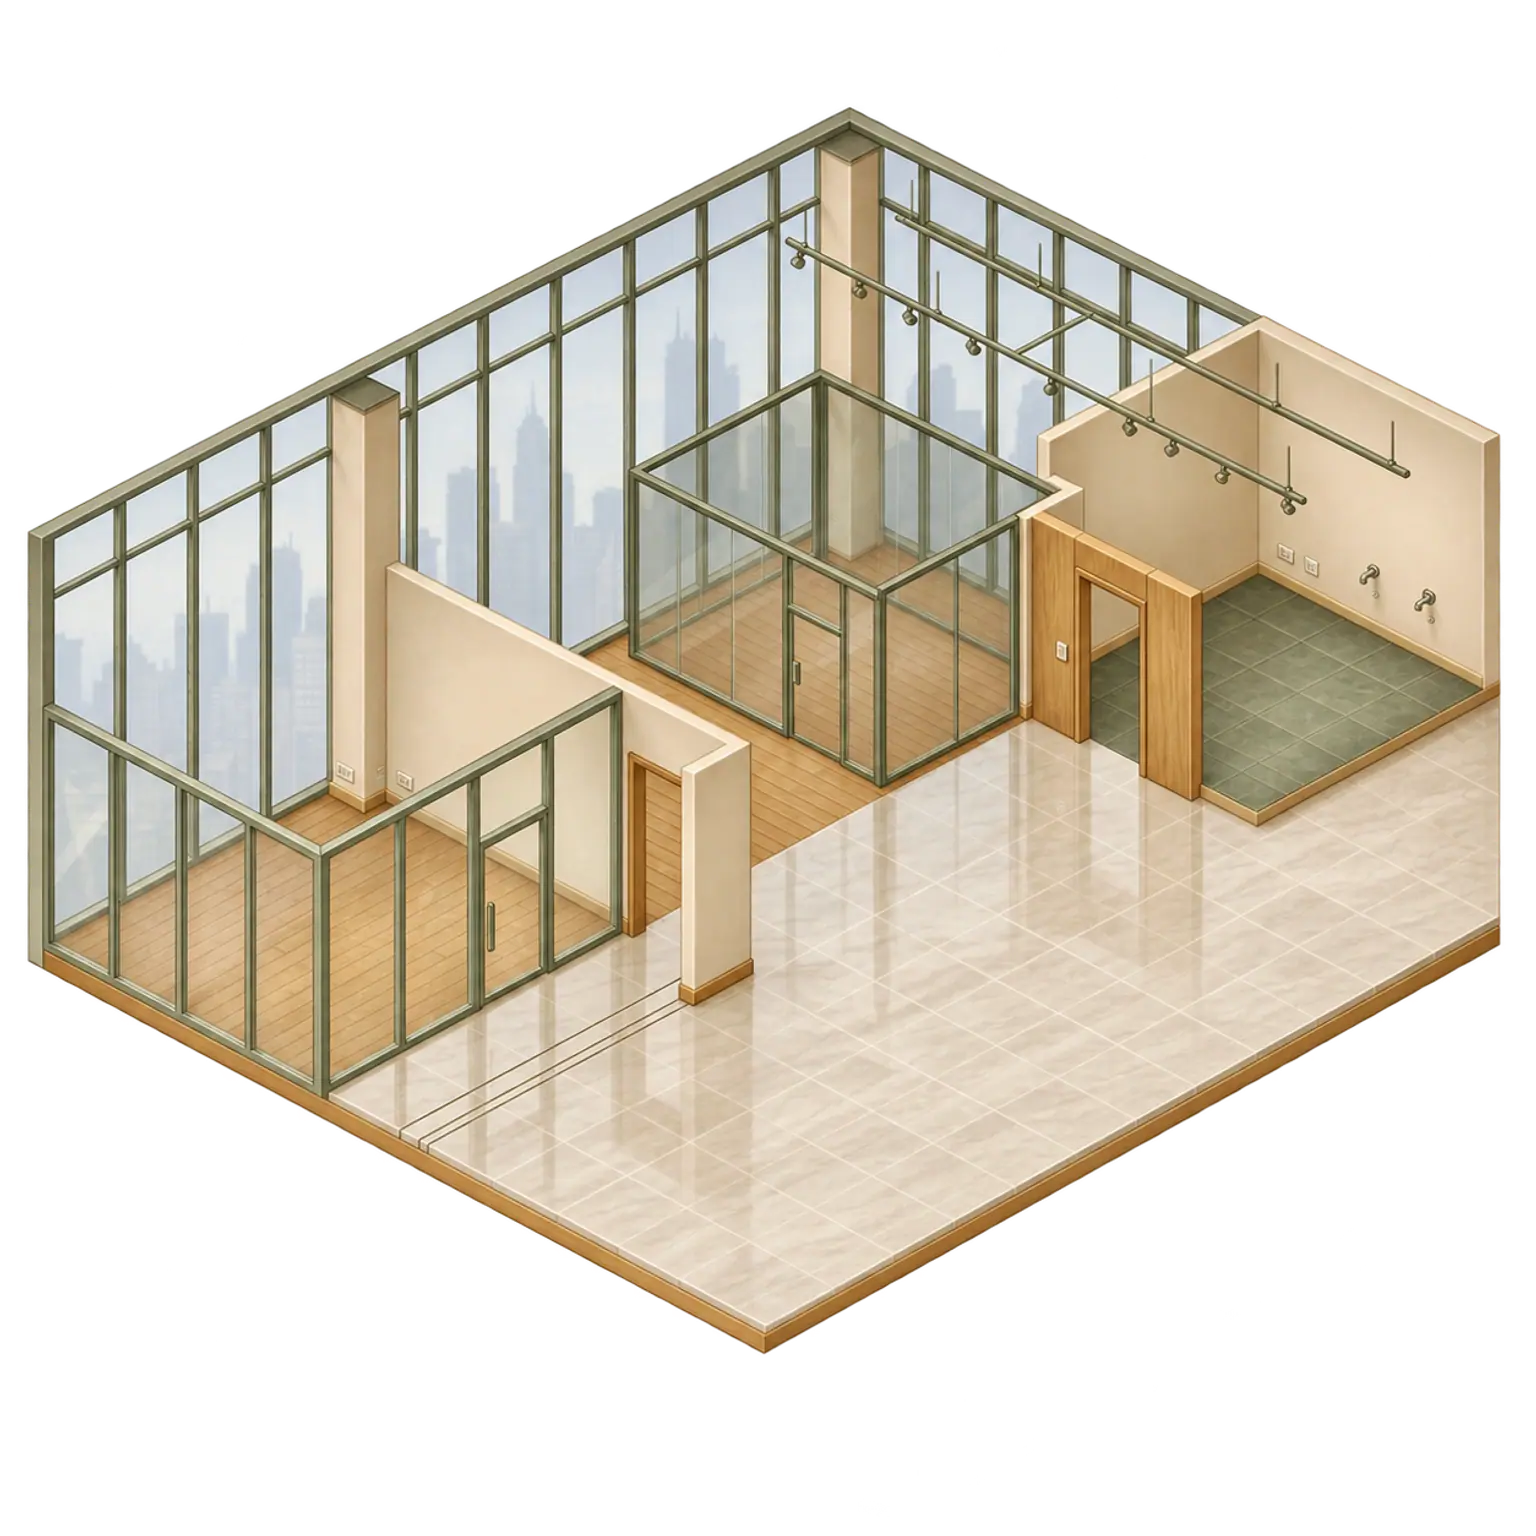
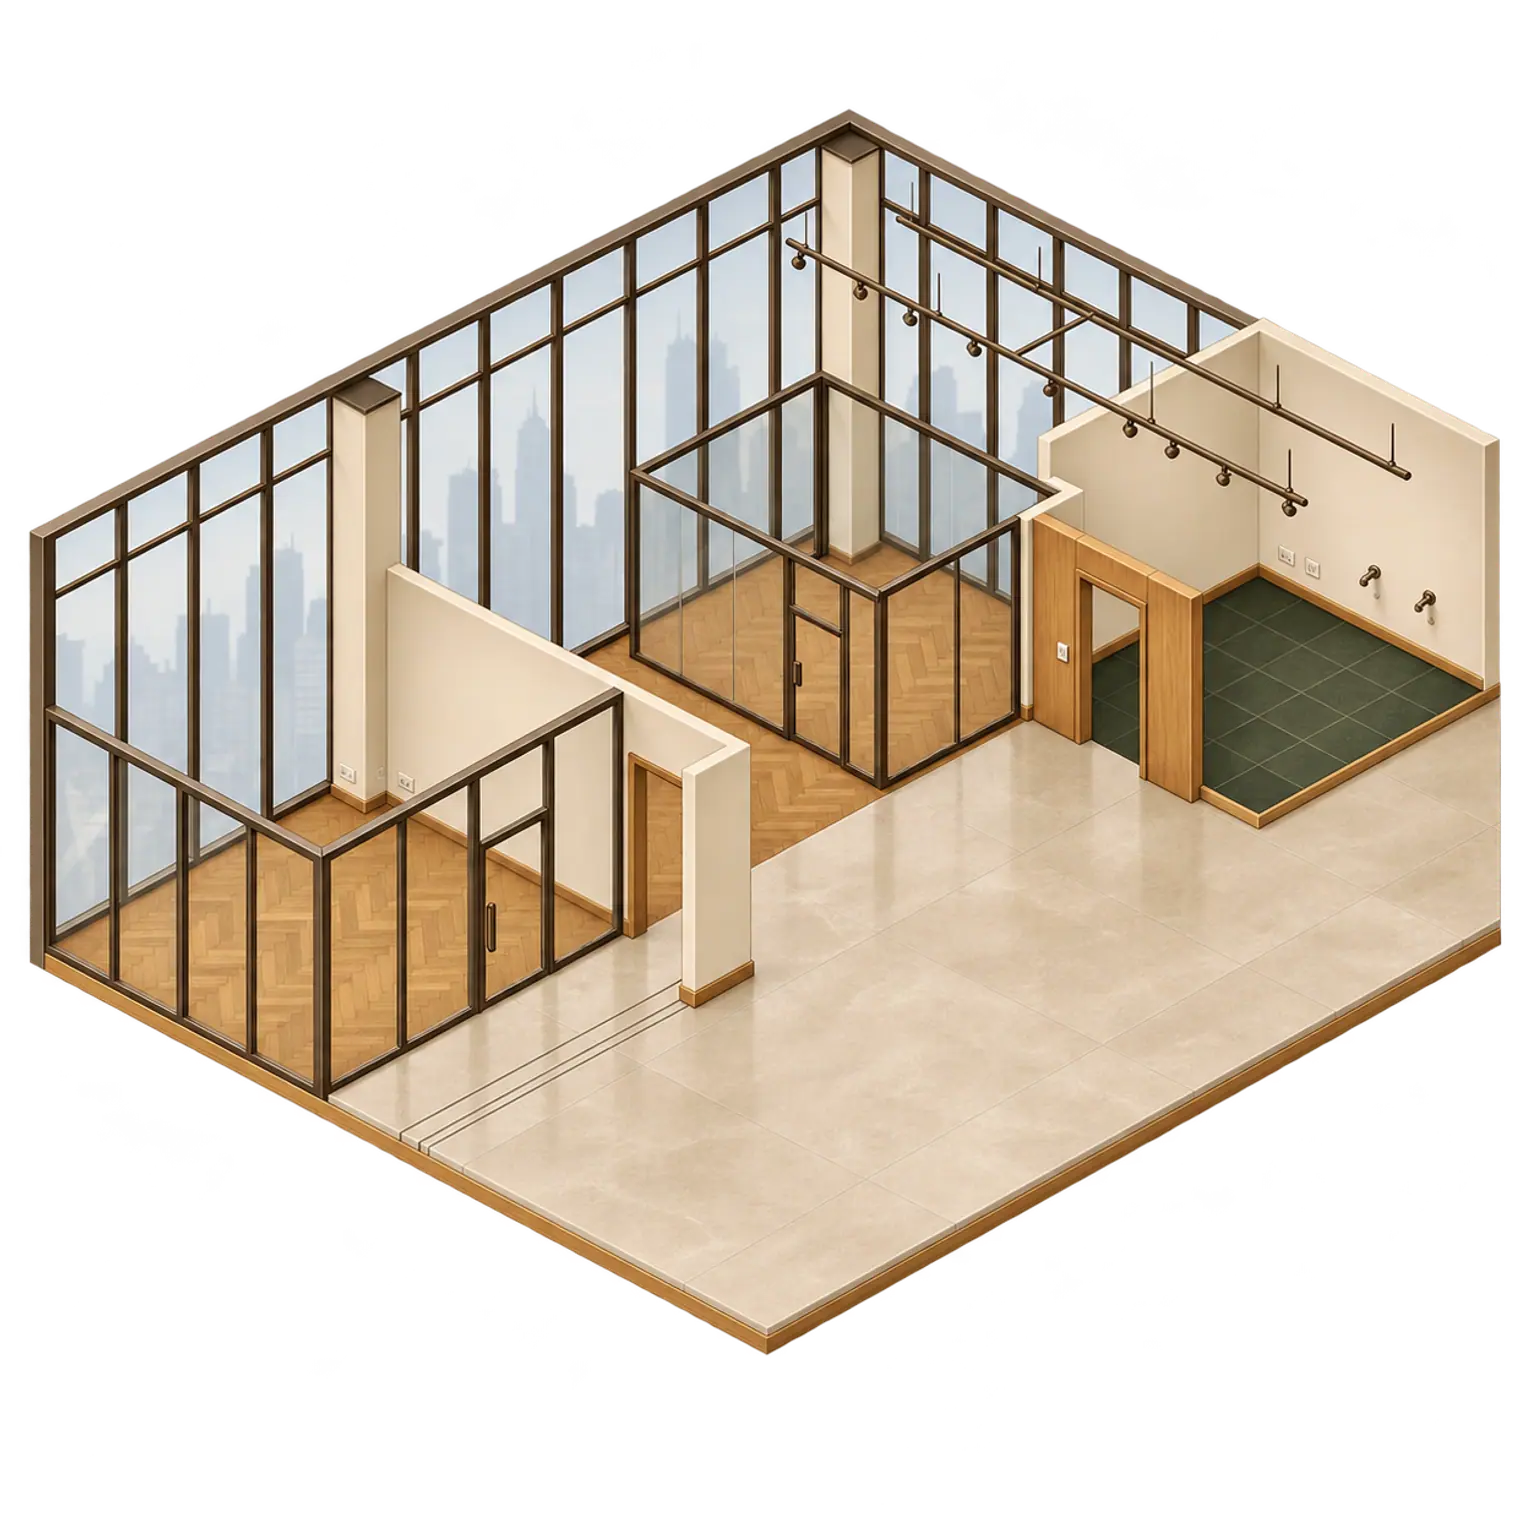
assets: address lot 5 review with portable verification and in-game QA

diff --git a/assets/issue-133-lot-5/README.md b/assets/issue-133-lot-5/README.md
@@ -4,11 +4,11 @@ Vẽ bằng imagegen tích hợp, tham chiếu phong cách duy nhất `assets/st
 
 ## Phạm vi
 
-14 tệp runtime, 9 thiết kế:
+14 tệp runtime, 11 thiết kế:
 
 - `room-master-storybook.webp`: 1448×1086, gốc sàn (724,350), ô 128×64, phòng 8×8, bếp 5×1, tắm 3×3. Bếp, chậu rửa, toilet, vòi sen, cửa sổ giữ trong vỏ; không có đồ đặt được.
 - `houses/{townhouse-t1,townhouse-t2,villa-t1,villa-t2}.webp`: khung gốc lần lượt 1984×1168, 1984×1168, 3904×2128, 2752×1552; giữ ox/oy từ house-floors.json và dữ liệu phòng/cửa/cầu thang từ manifest lô nhà cũ.
-- `offices/{small,medium,large}/background.webp`: 1536×1536. Ba bộ vốn có vỏ giống hệt nên dùng cùng thiết kế mới.
+- `offices/{small,medium,large}/background.webp`: 1536×1536. Ba bản vật liệu riêng: Nhỏ dùng khung olive và đá vân nhẹ; Vừa dùng khung sage, gỗ mật ong và đá kem mờ; Lớn dùng khung đồng tối, gỗ parquet và gạch xanh rừng. Giữ mặt bằng/neo gốc, chưa thay diện tích vật lý.
 - `offices/{small,medium,large}/room-cleaned-v02.png`: bản PNG cùng vỏ, giữ đường dẫn mà manifest/office-packs hiện tham chiếu. Không cần sửa TypeScript hoặc manifest runtime. Ngoài công trình chuyển từ nền than sang alpha, bỏ dấu lấp lánh cũ.
 - `static-scenes/{office,work}.webp`: hai cảnh đang được PackedOffice.tsx và WorkActivity.tsx dùng, khung 1536×1024. Cảnh kín giữ nền opaque. Người trong office được lấy lại từ ảnh gốc trong vùng bảo vệ, không thiết kế lại nhân vật.
 - `room-master.webp`: ảnh mẫu có đồ trong điện thoại (Phone.tsx), giữ khung 1448×1086 và nền kem. Đây là ảnh xem mẫu, không dùng làm vỏ đặt đồ.
@@ -26,12 +26,16 @@ Alpha gốc và khung được kiểm bằng máy; `geometry-preview.webp` đặ
 - `mobile-390x844.png`: trang duyệt asset có thể cuộn, không phải ảnh chụp trong game.
 - `baseline.json`, `baseline-contact.webp`: thông số và ảnh trước khi sửa, từ d259886.
 - `verify.cjs`: kiểm số tệp, khung, hash, dung lượng, alpha gốc, vùng nhân vật, dữ liệu hình học runtime không đổi.
+- `portable-baseline.json` và `baseline-characters/`: hash hình học và hai crop nhân vật gốc để verifier không cần lịch sử Git. `verify-portable.cjs` chạy verifier trên bản sao tối thiểu không có .git. Chỉ công cụ tác giả `capture-baseline.cjs`, exporter và ảnh đối chiếu cần baseline lịch sử.
+- `in-game-review.cjs`: chạy game thật trên localhost:4174 trong hồ sơ Edge biệt lập, dùng save QA tổng hợp hợp lệ. Kiểm hash ảnh tải, kéo bàn (5,5) sang (4,6), lưu/tải lại, thả vào bếp (1,0) bị chặn, không lỗi trang hay tràn ngang. `in-game-*-390x844.png` là ảnh trong game thật; `in-game-validation.json` ghi kết quả.
 
 Master ở generated_images của Codex; `sources.local.json` là ánh xạ cục bộ được gitignore. Cần sharp để chạy exporter/verifier/geometry-preview, Playwright Edge để chụp mobile.
 
-Ba bản PNG tương thích dùng mẫu 768px phóng đúng 2 lần về khung 1536px và palette 72 màu để dưới 150 KB; ưu tiên giữ sắc độ hơn bản 16 màu ở khung gốc. Bản WebP giữ mẫu 1536px. Ở mức phóng lớn PNG sẽ kém mịn hơn WebP; Claude có thể đổi đường dẫn sang WebP trong PR tích hợp riêng.
+Ba bản PNG tương thích dùng mẫu 768px phóng đúng 2 lần về khung 1536px và palette lần lượt 72/53/72 màu để dưới 150 KB. Bản WebP giữ mẫu 1536px. Ở mức phóng lớn PNG sẽ kém mịn hơn WebP; Claude có thể đổi đường dẫn sang WebP trong PR tích hợp riêng.
 
-Kết quả cuối: 14 tệp, tổng 1.856.056 byte, lớn nhất 142.248 byte. Verifier đạt; app test/build đạt trên main d34ac16 (app 0.43.1), core check đạt 18 test. Build chỉ còn các cảnh báo CSS giải quyết lúc runtime và chunk lớn có sẵn. Hai ảnh mobile đã được xem; chi tiết ở validation.json.
+Sau review: 14 tệp, tổng 1.855.268 byte, lớn nhất 144.606 byte. Verifier bản đầy đủ và bản không lịch sử đều đạt. Ảnh ghép đã sửa bàn/thảm không chồng chân đế và đèn dùng neo mặt bàn như runtime. Chi tiết test/build và kiểm game ở validation.json.
+
+Review chưa làm trong PR asset này: mặt bằng theo 40/85/160 m² thuộc T33, cần thay layout/placement đồng bộ; không chỉ đổi hình trong khi giữ neo cũ. Bốn tầng nhà giữ vách thấp và hình học gốc để đặt đồ. Nâng chi tiết art nhà và chuyển đường dẫn văn phòng sang WebP có thể làm ở PR tích hợp sau. Không đánh dấu các việc này đã hoàn tất.
 
 ## Ảnh cũ không vẽ lại — đề nghị Claude dọn riêng
 
